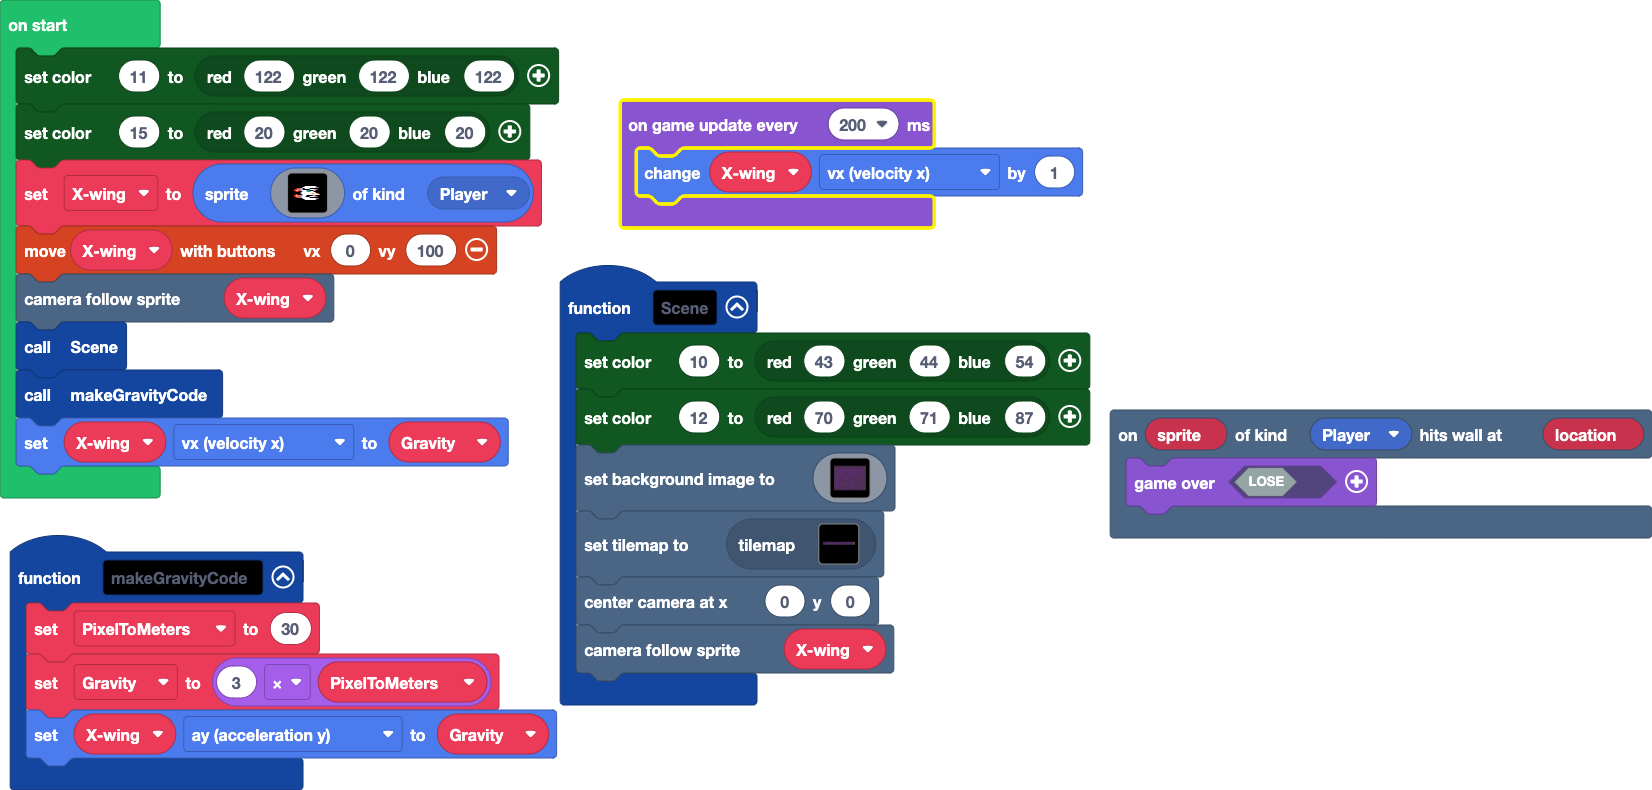
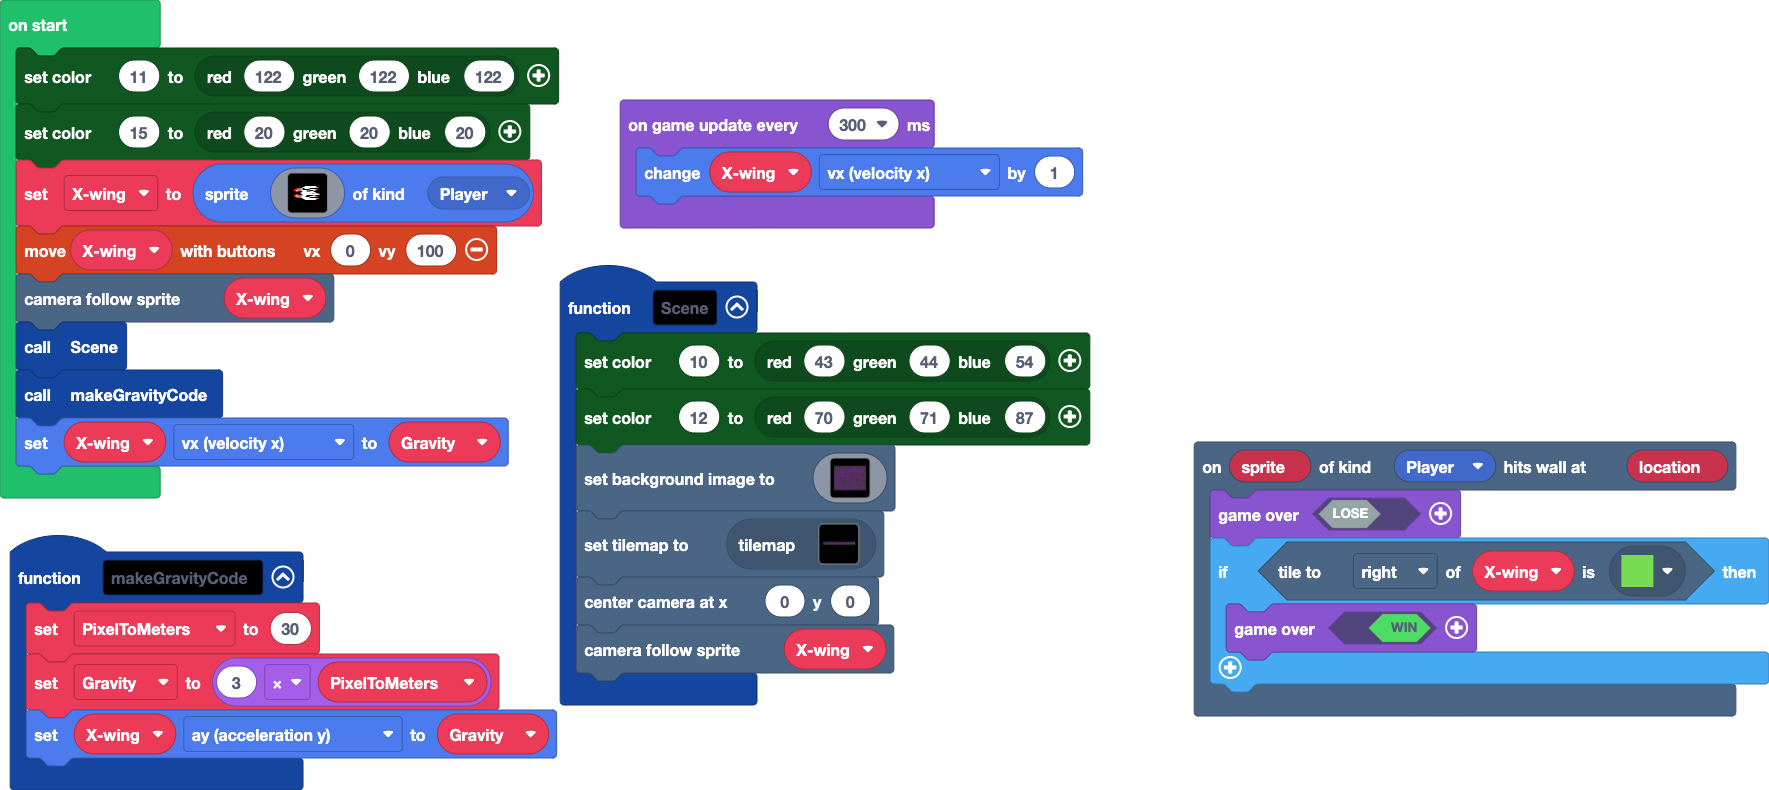
Update main.blocks, main.ts, tilemap.g.jres, tilemap.g.ts

Changed region(s): [[0.0, 0.0608, 1.0, 1.0], [0.0926, 0.0, 0.1235, 0.0608], [0.0, 0.0304, 0.0309, 0.0608]]

diff --git a/tilemap.g.ts b/tilemap.g.ts
@@ -8,20 +8,22 @@ namespace myTiles {
     export const tile3 = image.ofBuffer(hex``);
     //% fixedInstance jres blockIdentity=images._tile
     export const tile2 = image.ofBuffer(hex``);
+    //% fixedInstance jres blockIdentity=images._tile
+    export const tile4 = image.ofBuffer(hex``);
 
     helpers._registerFactory("tilemap", function(name: string) {
         switch(helpers.stringTrim(name)) {
             case "level1":
-            case "level1":return tiles.createTilemap(hex`640008000003030303030303030303030103030303030103030303030103030303030103030300030301030303000301000303030303030303030301030303030301030303030301030300030301030303030301030303030301030303030301030303030301020203030300030003030003030301030003030301030300030303030300030301030303030303010003030303010303030003030300030303000303030003010300030303010303030303030003030003010300030303010303000303010300030303010202030303030303000303030303030303030303010303030303030303030303030303030303030103030303030303030303030303030303030303030303030103030303030103030303030303030303030103030303030103030303030103030303030302020303000303030303030303030303030003030103030303030303030303030303000303000301030300030303030300030301030303030303030303030301030303030300030300030300030300030300030303030301030303030303030303030303020200030003030003030300030303030303030300030300030301030300030303030303030303030303030303030303030303010303030303010300030303000303000303030303030303010303030303030303030303000303030303030303030003030202030303030303030303030303010303030303030303030303010303030303010303030303030303030303030103000303030100030303030303030303030303030303030003030303030103030303030303000303030303030300030303030303030302020303030303030303030303030103030303030303030303030103030303030103030300030303030303030001030303030301030303030303030300030300030303030301030300030301030003030301030303030303000303030301030303030301020203000303030300030300030301030300030301030303000301030003030301030303030303010300030303010303030300010303000303010303030303010303030303010303030303010303030303010303030303010303030300010303000303010202`, img`
-............2.....2.....2.....2......2.....2...........2.....2.....2.....2.....2.....2.....2.....2..
-............2.....2...........2......2.....2.................2.....2...........2.....2.....2.....2..
-..................2..................2.......................2.....2...........2.....2.....2........
-..................2..................2...........2...........2.......................2..............
-........................2........................2.....2.................2..........................
-............2...........2.....2............2.....2.......................2..........................
-............2...........2.....2............2.....2.................2.....2.....2...........2.....2..
-............2.....2.....2.....2......2.....2.....2.....2.....2.....2.....2.....2.....2.....2.....2..
-`, [myTiles.transparency16,myTiles.tile1,myTiles.tile3,myTiles.tile2], TileScale.Sixteen);
+            case "level1":return tiles.createTilemap(hex`640008000003030404040404030303030103030303030103030303030103030303030103040300030301030303000301000303030303030303030301030303030301030303030301030300030301030303030301030304040301030303030301030303030301020203030300030003030003030401030003030301030300030304030300030301030404030303010003030303010304030003030300030303000303030003010300030303010303030303030003030003010300030403010303000303010300030403010202030303030303000303030304030303030303010304040404040403030303030303040303030103030303030303040404040304030303030303040403030103030303030103030303030303030303030103030304040103040303030103030304040302020303000303030303030303040403030003030103030304040304040404040303000404000301030300030303030300040401040403030303030304030301030303030300030300030300030300030300030303040301030404040404030303030404020200030003030003030300030303030303030300030300040401030300030403030303030303030303030304030303030403010304040403010300040403000303000303030303030304010303030303030303030403000303030303040403030003040202030303030303030404040303010303030303030303040404010303030303010303030303030404040404030103000404030100030303030303030304040303040303030003030304040103030304030303000304030303030300030303030303040402020303030403030304030303030103030303030303040303030103030303030103030300030303030303030001030303030301030303030303030300030404030404030301030300040401030003040401030303040303000303030301030303030301020203000303030300030300030301030300030301030303000301030003030301030303030303010300030303010303030300010303000303010303030303010303030303010303030304010303030304010303030403010303030300010303000303010202`, img`
+............2.....2.....2.....2......2.....2...........2.....2.....2.....2.....2.....2.....2.....2.2
+............2.....2...........2......2.....2.................2.....2...........2.....2.....2.....2.2
+..................2..................2.......................2.....2...........2.....2.....2.......2
+..................2..................2...........2...........2.......................2.............2
+........................2........................2.....2.................2.........................2
+............2...........2.....2............2.....2.......................2.........................2
+............2...........2.....2............2.....2.................2.....2.....2...........2.....2.2
+............2.....2.....2.....2......2.....2.....2.....2.....2.....2.....2.....2.....2.....2.....2.2
+`, [myTiles.transparency16,myTiles.tile1,myTiles.tile3,myTiles.tile2,myTiles.tile4], TileScale.Sixteen);
         }
         return null;
     })
@@ -35,6 +37,8 @@ namespace myTiles {
             case "tile3":return tile3;
             case "myTile0":
             case "tile2":return tile2;
+            case "myTile2":
+            case "tile4":return tile4;
         }
         return null;
     })

diff --git a/main.ts b/main.ts
@@ -1,5 +1,8 @@
 scene.onHitWall(SpriteKind.Player, function (sprite, location) {
     game.over(false)
+    if (Xwing.tileKindAt(TileDirection.Right, assets.tile`myTile1`)) {
+        game.over(true)
+    }
 })
 function makeGravityCode () {
     PixelToMeters = 30
@@ -163,6 +166,6 @@ scene.cameraFollowSprite(Xwing)
 Scene()
 makeGravityCode()
 Xwing.vx = Gravity
-game.onUpdateInterval(200, function () {
+game.onUpdateInterval(300, function () {
     Xwing.vx += 1
 })
